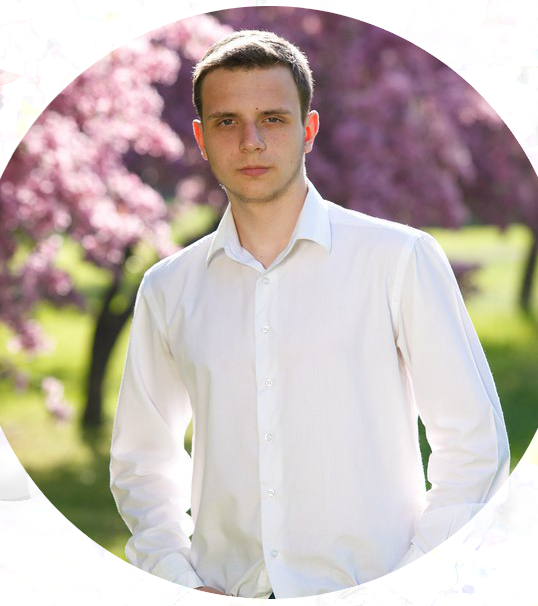
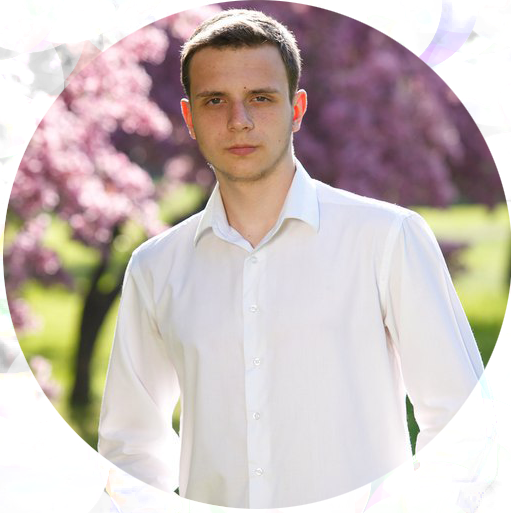
reset

diff --git a/assets/css/citeStyle/portfolio.css b/assets/css/citeStyle/portfolio.css
@@ -21,7 +21,7 @@
 .slider__item{
   width: 90%;
   margin-left: auto;
-  margin-right: auto 
+  margin-right: auto;
 }
 .slider{
   text-align: center;
@@ -33,11 +33,17 @@
   height: 76%;
   background: rgba(83, 66, 180, .7);
 }
+.slider h3{
+  color:#fff;
+}
 .slider img{
-  width: 90%;
-  max-width: 250px;
+  width: 60%;
+  height: 60%;
+  max-width: 200px;
   margin-left: auto;
-  margin-right: auto 
+  margin-right: auto;
+  margin-top: 10%;
+  border-radius: 20px;
 }
 .portfolio__logo{
   width: 30%;

diff --git a/assets/css/citeStyle/contacts.css b/assets/css/citeStyle/contacts.css
@@ -22,7 +22,14 @@
     padding-top: 10px;
     padding-bottom: 10px;
 }
-
+.text{
+    display: block;
+    color:white;
+    font-size: 18px;
+    max-width: 500px;
+    text-align: center;
+    margin: 0 auto;
+}
 .wrap_three .forms form{
 
     margin: 15px;
